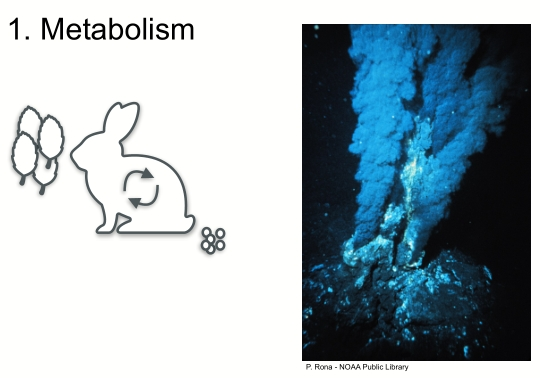
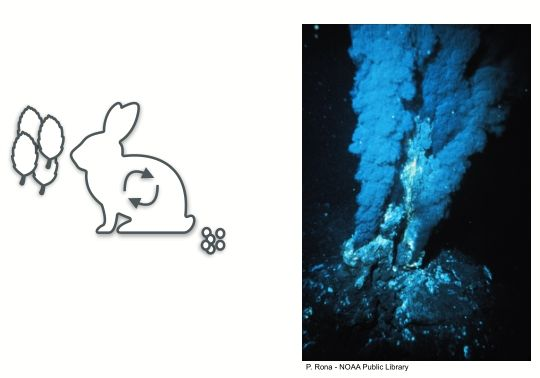
Completed Lecture 4.7.2

Changed region(s): [[0.0, 0.0291, 0.3556, 0.1164]]

diff --git a/origins/origins4.tex b/origins/origins4.tex
@@ -43,7 +43,7 @@ We'll discuss evolution in a pre-cellular world, including \glsdisp{gls:autocata
 \section[Protocells]{Protocells--Sarah Mauer}
 
 \subsection{Importance of aggregates to origins of life}
-We'll look at \glspl{gls:protocell} as a model for the origins of life. \glspl{gls:protocell} are important for the origins of life because they are aggregates --Figure \ref{fig:ImportanceOfAggregation} \cite{deamer2017role,maurer2011primitive,segre2001lipid}.
+We'll look at \glspl{gls:protocell} as a model for the origins of life. \Glspl{gls:protocell} are important for the origins of life because they are aggregates --Figure \ref{fig:ImportanceOfAggregation} \cite{deamer2017role,maurer2011primitive,segre2001lipid}.
 
 \begin{itemize}
 	\item  Co-localize and protect metabolic/genetic components
@@ -159,10 +159,10 @@ See \cite{adamala2016programmable,monnard2015current}.
 
 \subsection{Protocell Growth and division}
 See movie, where we see growing vesicle stealing material from neighbour. 
-Figure \ref{fig:ProtocellGrowthDivision} illustrates Protocell Growth and division.  
+Figure \ref{fig:ProtocellGrowthDivision} illustrates \Gls{gls:protocell} growth and division.  
 
 \begin{figure}[H]
-	\caption{Protocell Growth and division}\label{fig:ProtocellGrowthDivision}
+	\caption{\Gls{gls:protocell} Growth and division}\label{fig:ProtocellGrowthDivision}
 	\includegraphics[width=0.9\textwidth]{ProtocellGrowthDivision}
 \end{figure}
 
@@ -758,39 +758,19 @@ and one of three reactions.
 	\includegraphics[width=0.9\textwidth]{AutoCatalytic2}
 \end{figure}
 
-Figure \ref{fig:AutoCatalyticSubsets} is another example
-from the same bit string model,
-which shows an autocatalytic set
-of eight reactions
-containing various smaller
-autocatalytic subsets,
-as indicated by the differently
-colored shapes.
-This hierarchical subset structure
-can enable the existence
-of different types of protocells.
+Figure \ref{fig:AutoCatalyticSubsets} is another example from the same bit string model,
+which shows an autocatalytic set of eight reactions containing various smaller autocatalytic subsets, as indicated by the differently colored shapes.
+This hierarchical subset structure can enable the existence of different types of \glspl{gls:protocell}.
 
 \begin{figure}[H]
 	\caption[An Autocatalytic Set made up of Autocatalytic Subsets]{An Autocatalytic Set made up of Autocatalytic Subsets\cite{hordijk2017chasing}}\label{fig:AutoCatalyticSubsets}
 	\includegraphics[width=0.9\textwidth]{AutoCatalyticSubsets}
 \end{figure}
 
-Imagine two compartments formed,
-for example, by lipid membranes,
-which have been shown to form,
-grow and divide spontaneously
-under appropriate circumstances.
-Now, assume that
-the same chemistry can take place
-in both of these compartments,
-but in one of them
-only the red autocatalytic subset
-is currently present,
-and in the other one
+Imagine two compartments formed, for example, by lipid membranes, which have been shown to form, grow and divide spontaneously under appropriate circumstances.
+Now, assume that the same chemistry can take place in both of these compartments, but in one of them only the red autocatalytic subset is currently present, and in the other one
 only the blue autocatalytic subset.
-This would form two different types of protocells, which might compete with each other
-for food resources--in this case the monomers and dimers--and perhaps even give rise to
-some simple evolutionary dynamics.
+This would form two different types of \glspl{gls:protocell}, which might compete with each other for food resources--in this case the monomers and dimers--and perhaps even give rise to some simple evolutionary dynamics.
 
 
 
@@ -801,7 +781,7 @@ and become more complex over time,
 exactly because of this existence
 of multiple autocatalytic subsets.
 This is shown in Figure \ref{fig:EvolveableProtocells} with simulated
-protocells changing color over time,
+\glspl{gls:protocell} changing color over time,
 depending on which autocatalytic
 subsets they contain.
 These results are mostly based on
@@ -1055,8 +1035,7 @@ We need to think of simpler mechanisms for heredity than are now used in the cel
 		\item similar issue: the molecule has to be quite complex
 		\item it’s a promising area of active study.
 	\end{itemize}
-	\item Compositional heredity - no heteropolymers,
-	information stored in composition of protocell instead\cite{vasas2012evolution,segre2000compositional}.
+	\item Compositional heredity - no heteropolymers, 	information stored in composition of \gls{gls:protocell} instead\cite{vasas2012evolution,segre2000compositional}.
 \end{itemize}
 
 \subsubsection{Summary}
@@ -1079,30 +1058,49 @@ See also   \cite{carnall2010mechanosensitive,king1977symbiosis,king1982recycling
 
 \section{Evolutionary Theory}
 
+We will talk about the evolutionary theory of the origin of life.
+
 \subsection[An Introduction]{An Introduction-- Michael Travisano}
 
-
-Evolutionary origin of three processes--Figure \ref{fig:EvolutionaryOrigin}.
+There's really three important processes--Figure \ref{fig:EvolutionaryOrigin}.
 
 \begin{itemize}
-	\item Metabolism
-	\item Genetic Transmission
-	\item Evolution
+	\item Metabolism--Figure \ref{fig:EvolutionaryOrigin1}
+	\item Genetic Transmission--Figure \ref{fig:EvolutionaryOrigin2}
+	\item Evolution--Figure \ref{fig:EvolutionaryOrigin3}
 \end{itemize}
 
 \begin{figure}[H]
 	\caption{Evolutionary origin of three processes}\label{fig:EvolutionaryOrigin}
-	\includegraphics[width=0.9\textwidth]{EvolutionaryOrigin}
+	\begin{subfigure}[t]{0.3\textwidth}
+		\caption{Metabolism: organism eats things, digests them, and gets rid of waste products.}\label{fig:EvolutionaryOrigin1}
+		\includegraphics[width=\textwidth]{EvolutionaryOrigin1}
+	\end{subfigure}
+	\;\;
+	\begin{subfigure}[t]{0.3\textwidth}
+		\caption{Genetic Transmission: organism replicates itself, and transmits genes to an offspring.}\label{fig:EvolutionaryOrigin2}
+		\includegraphics[width=\textwidth]{EvolutionaryOrigin2}
+	\end{subfigure}
+	\;\;
+	\begin{subfigure}[t]{0.3\textwidth}
+		\caption{Evolution: transmits not-exactly itself.}\label{fig:EvolutionaryOrigin3}
+		\includegraphics[width=\textwidth]{EvolutionaryOrigin3}
+	\end{subfigure}
 \end{figure}
+
+These processes are what we think about the evolutionary origin. It is challenging if we think of them as they are in life today.
 
 \subsubsection{Metabolism}
 
-Metabolic pathways are complex. It is hard to imagine how we could go from nothing to the Citric Acid Cycle--Figure \ref{fig:CitricAcidCycle}. So metabolism probably started with one of the many non-living metabolism-like processes on Earth, such as the Black Smoker--Figure \ref{fig:BlackSmoker}.
+Metabolic pathways are complex. The Citric Acid Cycle--Figure \ref{fig:CitricAcidCycle}--is very complex, with many steps \& many enzymes; it is super well ordered. It is hard to imagine how we could go from nothing to Figure \ref{fig:CitricAcidCycle}.
+
 \begin{figure}[H]
-	\caption{Metabolic pathways are complex}\label{fig:CitricAcidCycle}
+	\caption{The citric acid cycle: metabolic pathways are complex}\label{fig:CitricAcidCycle}
 	\includegraphics[width=0.9\textwidth]{CitricAcidCycle}
 \end{figure}
 
+ What probably happened is you didn't go from nothing to  Figure \ref{fig:CitricAcidCycle}.  There are many non-living ''metabolism-like'' processes on Earth, such as the Black Smoker--Figure \ref{fig:BlackSmoker}. We don't know which one was the most important.
+ 
 \begin{figure}[H]
 	\caption[Black Smoker]{Black Smoker: one of the many non-living metabolism-like processes on Earth}\label{fig:BlackSmoker}
 	\includegraphics[width=0.9\textwidth]{BlackSmoker}
@@ -1110,31 +1108,33 @@ Metabolic pathways are complex. It is hard to imagine how we could go from nothi
 
 \subsubsection{Genetic Transmission}
 
-DNA replication is complex--Figure \ref{fig:DNA_replication_complex}--and this is only one of the processes involved. Figure \ref{fig:SpontaneousFormation}\cite{cafferty2016spontaneous} illustrates some possible precursors which self-assemble in water. 
+DNA replication is complicated nowadays--Figure \ref{fig:DNA_replication_complex}--it has all these steps. And this is only the most simple part of transmission: it doesn't include meiosis or any of the other steps in reproduction. It is difficult to see how we went from nothing to all the modern complexity, so that is probably not what happened.
 \begin{figure}[H]
 	\caption{DNA replication is complex}\label{fig:DNA_replication_complex}
 	\includegraphics[width=0.9\textwidth]{DNA_replication_complex}
 \end{figure}
 
+We can see that if we take the precursors of DNA and RNA and put them in water, ehay will self assemble into things that can carry information--Figure \ref{fig:SpontaneousFormation}. 
 \begin{figure}[H]
-	\caption[Spontaneous formation and base pairing]{Spontaneous formation and base pairing of plausible prebiotic nucleotides in water}\label{fig:SpontaneousFormation}
+	\caption[Spontaneous formation and base pairing]{Spontaneous formation and base pairing of plausible prebiotic nucleotides in water\cite{cafferty2016spontaneous}}\label{fig:SpontaneousFormation}
 	\includegraphics[width=0.9\textwidth]{SpontaneousFormation}
 \end{figure}
 
-\subsubsection{Evolution}
+\subsubsection{Evolution of Evolution}
 
-Genetic Transmission must ve sensitive enough to mutations for it to have an effect, but not too sensitive, so it doesn't break--Figure \ref{fig:EvolutionOfEvolution}.
+This is perhaps the most challenging of all. DNA replication is complex, and must be evolvable. Genetic Transmission must be sensitive enough to mutations for it to have an effect, but not too sensitive, so it doesn't break--Figure \ref{fig:EvolutionOfEvolution}.
 \begin{figure}[H]
 	\caption{DNA replication is complex and must be evolvable}\label{fig:EvolutionOfEvolution}
 	\includegraphics[width=0.9\textwidth]{EvolutionOfEvolution}
 \end{figure}
 
-We know that there were precursors to modern day heritable material probably around at the origin of life--Figure \ref{fig:SpontaneousFormation}\cite{cafferty2016spontaneous}. Could they change and still work? Yes: they mutate, and work in different ways--Figure \ref{fig:ContinuityInEvolution}\cite{fontana1998continuity}.
+We know that there were precursors to modern day heritable material probably around at the origin of life--Figure \ref{fig:SpontaneousFormation}. Could they change and still work? Yes: they mutate, and work in different ways--Figure \ref{fig:ContinuityInEvolution}.
 
 \begin{figure}[H]
-	\caption{Continuity in Evolution: On the Nature of Transitions}\label{fig:ContinuityInEvolution}
+	\caption[Continuity in Evolution: On the Nature of Transitions]{Continuity in Evolution: On the Nature of Transitions\cite{fontana1998continuity}}\label{fig:ContinuityInEvolution}
 	\includegraphics[width=0.9\textwidth]{ContinuityInEvolution}
 \end{figure}
+
 There are precursors for all the mechanisms we need. The big challenge is putting them together.
 \begin{itemize}
 	\item Preexisting Metabolism
@@ -1148,7 +1148,7 @@ Suggested Reading
 	\item \cite{sumper1975evidence} treats life more mechanistically, and shows how we can use chemistry to understand it.
 \end{itemize}
 
-See also \cite{orgel2004prebiotic}, \cite{eigen1971selforganization}, \cite{kun2005real}, and \cite{ratcliff2014experimental}.
+See also \cite{eigen1971selforganization,orgel2004prebiotic,kun2005real,ratcliff2014experimental}.
 
 \subsection[A Recipe for Adaptation]{A Recipe for Adaptation-- David Baum}
 
